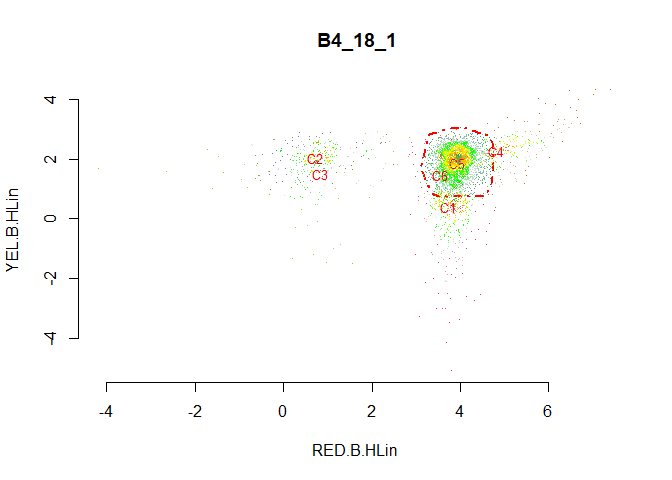
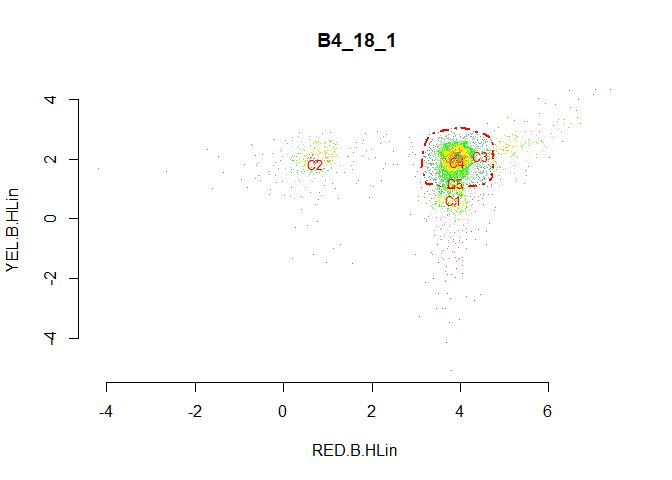
README updated

Changed region(s): [[0.625, 0.2812, 0.75, 0.4688], [0.4375, 0.3125, 0.5, 0.375]]

diff --git a/README.md b/README.md
@@ -234,6 +234,22 @@ cyanoFilter::pair_plot(flowfile_logtrans, notToPlot = "TIME") ##logtransformed
 
 ## Clustering and Gating
 
+Flow cytometry outcomes can be divided into 3 and they are not entirely
+mutually exclusive but this is normally not a problem as scientists are
+normally interested in a pre-defined outcome.
+
+![Flow Cytometry
+Outcomes](README_files/figure-gfm/flowcytometryOutcome.PNG)
+
+  - Margin Events are particles too big to be measured
+  - Doublets are cells with disproportionate Area, Height relationship
+  - Singlets are the ‘normal cells’ but these could either be dead
+    cells/particles (debris) and living (good cells).
+
+The set of functions below identifies margin events and singlets.
+Doublets are normally pre-filtered during the event acquiring phase in a
+flow cytometer, especially in new models.
+
 ### Margin Events
 
 Margin Events are particles that are too large for teh flow cytometer to
@@ -257,6 +273,20 @@ flowfile_marginout <- cyanoFilter::cellmargin(flow.frame = flowfile_logtrans, Ch
 ```
 
 ![](man/figures/README-marginEvents-1.png)<!-- -->
+
+We conceptualized the division of cells into clusters in two ways in
+cyanoFilter and this is reflected in two main functions that perform the
+clustering exercise; `celldebris_nc()` and `celldebris_emclustering()`.
+The `celldebris_nc()` function employs minimum intersection points
+between peaks in observed in a two dimensional kernel density estimate
+while `celldebris_emclustering()` employs an EM algorithm which uses a
+mixture of multivariate normals to assign probabilities to each cell
+belonging to a cluster. Behind the scenes, `celldebris_nc()` calls the
+`deGate()` in **flowDensity** package to estimate the intersection point
+between peaks and `celldebris_emclustering()` calls an internal
+`mvnorm()` function for the multivariate normals. Both functions produce
+plots by default to enable users access the
+results.
 
 ### cyanobacteria Population Identification (Kernel Density Approach using flowDensity)
 
@@ -340,66 +370,71 @@ cyanoFilter::celldebris_nc(flowfile_marginout$reducedflowframe, channel1 = "RED.
     > $Debris_Count
     > [1] 348
 
+Here, we demonstrate the use of the `celldebris_nc()` function on the
+result from filtering out of margin events. The dashed red lines in the
+plot shows the intersection points estimated and the circle comes from
+the fact that *to\_retain* option was set to refined *refined*. This
+option forces the algorithm to retain only cells that are not more than
+1 standard deviations away from the center. If *to\_retain* is set to
+refined *potential*, then all points in the desired section of the 4
+sections resulting from the partitions are retained. The functions
+returns a list containing; a fullflowframe with added column for
+indicators for each cell type, a reduced flowframe with only *interest*
+cells retained, cell count and debris counts.
+
 ### cyanobacteria Population Identification (EM Approach)
 
 ``` r
 
 cyanoFilter::celldebris_emclustering(flowfile_marginout$reducedflowframe, channels =  c("RED.B.HLin",
-                    "YEL.B.HLin", "FSC.HLin", "RED.R.HLin") )
+                    "YEL.B.HLin", "FSC.HLin", "RED.R.HLin"), ncluster = 4, min.itera = 20)
 ```
 
 ![](man/figures/README-emapproach-1.png)<!-- -->
 
     > $percentages
-    > [1] 0.16141975 0.05674587 0.03567496 0.10603963 0.64011979
+    > [1] 0.1603434 0.0913181 0.1352290 0.6131095
     > 
     > $mus
-    >                 [,1]      [,2]      [,3]     [,4]     [,5]
-    > RED.B.HLin 3.7667113 0.6918045 0.8377841 4.672208 3.940687
-    > YEL.B.HLin 0.8290632 2.0195027 1.5998735 2.189597 1.847443
-    > FSC.HLin   4.7099883 5.5553504 5.1949117 6.799144 4.686122
-    > RED.R.HLin 7.5222036 2.1122156 3.0892964 8.460369 7.739509
+    >                 [,1]      [,2]     [,3]     [,4]
+    > RED.B.HLin 3.8465630 0.7131422 4.464301 3.930001
+    > YEL.B.HLin 0.6397642 1.8554664 2.102632 1.898378
+    > FSC.HLin   4.5897667 5.4170762 6.421048 4.701586
+    > RED.R.HLin 7.6555843 2.4252307 8.227040 7.721501
     > 
     > $sigmas
     > $sigmas[[1]]
-    >             RED.B.HLin  YEL.B.HLin   FSC.HLin  RED.R.HLin
-    > RED.B.HLin  0.08650772 -0.04124413 0.07685445  0.08766450
-    > YEL.B.HLin -0.04124413  1.49207964 0.16748962 -0.06058480
-    > FSC.HLin    0.07685445  0.16748962 0.20253901  0.08075963
-    > RED.R.HLin  0.08766450 -0.06058480 0.08075963  0.12208235
+    >            RED.B.HLin YEL.B.HLin   FSC.HLin RED.R.HLin
+    > RED.B.HLin 0.07580081 0.02980540 0.08426180 0.07097636
+    > YEL.B.HLin 0.02980540 1.23630828 0.04172387 0.05866036
+    > FSC.HLin   0.08426180 0.04172387 0.16182267 0.08745400
+    > RED.R.HLin 0.07097636 0.05866036 0.08745400 0.08886564
     > 
     > $sigmas[[2]]
-    >            RED.B.HLin   YEL.B.HLin   FSC.HLin   RED.R.HLin
-    > RED.B.HLin 0.24587507  0.064379340 0.15697100  0.039666562
-    > YEL.B.HLin 0.06437934  0.158786398 0.13088514 -0.006178874
-    > FSC.HLin   0.15697100  0.130885137 1.07100822  0.020786312
-    > RED.R.HLin 0.03966656 -0.006178874 0.02078631  0.362570873
+    >            RED.B.HLin YEL.B.HLin   FSC.HLin RED.R.HLin
+    > RED.B.HLin 0.57603628 0.07228834 0.15286443 0.27384572
+    > YEL.B.HLin 0.07228834 0.45502738 0.18243234 0.06658472
+    > FSC.HLin   0.15286443 0.18243234 1.05536281 0.09535163
+    > RED.R.HLin 0.27384572 0.06658472 0.09535163 2.19134493
     > 
     > $sigmas[[3]]
     >            RED.B.HLin YEL.B.HLin  FSC.HLin RED.R.HLin
-    > RED.B.HLin  1.3504202  0.1361328 0.1780014  1.0482982
-    > YEL.B.HLin  0.1361328  0.8100661 0.1622922  0.4575789
-    > FSC.HLin    0.1780014  0.1622922 0.9449451  0.4280339
-    > RED.R.HLin  1.0482982  0.4575789 0.4280339  5.3530708
+    > RED.B.HLin  0.7139009  0.2776214 0.8619770  0.7329412
+    > YEL.B.HLin  0.2776214  0.3681875 0.5154923  0.2867341
+    > FSC.HLin    0.8619770  0.5154923 1.7671543  0.9027176
+    > RED.R.HLin  0.7329412  0.2867341 0.9027176  0.7740840
     > 
     > $sigmas[[4]]
-    >            RED.B.HLin YEL.B.HLin  FSC.HLin RED.R.HLin
-    > RED.B.HLin  0.6641398  0.2581150 0.6986730  0.6627531
-    > YEL.B.HLin  0.2581150  0.3525741 0.4785388  0.2572977
-    > FSC.HLin    0.6986730  0.4785388 1.5192332  0.6987817
-    > RED.R.HLin  0.6627531  0.2572977 0.6987817  0.6758216
-    > 
-    > $sigmas[[5]]
-    >            RED.B.HLin  YEL.B.HLin   FSC.HLin  RED.R.HLin
-    > RED.B.HLin 0.08377324 0.015955755 0.09307965 0.075609542
-    > YEL.B.HLin 0.01595576 0.245660497 0.02724529 0.008981062
-    > FSC.HLin   0.09307965 0.027245289 0.15232267 0.094490988
-    > RED.R.HLin 0.07560954 0.008981062 0.09449099 0.091592072
+    >            RED.B.HLin YEL.B.HLin   FSC.HLin RED.R.HLin
+    > RED.B.HLin 0.08659053 0.01262454 0.09003367 0.07992904
+    > YEL.B.HLin 0.01262454 0.20102538 0.02049452 0.00709516
+    > FSC.HLin   0.09003367 0.02049452 0.15117268 0.09328323
+    > RED.R.HLin 0.07992904 0.00709516 0.09328323 0.09980127
     > 
     > 
     > $result
     > flowFrame object ' B4_18_1'
-    > with 3831 cells and 17 observables:
+    > with 3831 cells and 16 observables:
     >                  name                                desc range
     > $P1          FSC.HLin          Forward Scatter (FSC-HLin) 1e+05
     > $P2          SSC.HLin             Side Scatter (SSC-HLin) 1e+05
@@ -417,26 +452,33 @@ cyanoFilter::celldebris_emclustering(flowfile_marginout$reducedflowframe, channe
     > 2      Cluster_Prob_2                      Cluster_Prob_2     1
     > 3      Cluster_Prob_3                      Cluster_Prob_3     1
     > 4      Cluster_Prob_4                      Cluster_Prob_4     1
-    > 5      Cluster_Prob_5                      Cluster_Prob_5     1
-    >                   minRange          maxRange
-    > $P1                      0             99999
-    > $P2      -34.4792823791504             99999
-    > $P3      -21.1945362091064             99999
-    > $P4      -10.3274412155151             99999
-    > $P5      -5.34720277786255             99999
-    > $P6      -4.30798292160034             99999
-    > $P7      -25.4901847839355             99999
-    > $P8      -16.0200233459473             99999
-    > $P9                      0             99999
-    > $P10                  -111             99999
-    > $P11                     0             99999
-    > 12                       0                 1
-    > 1                        0 0.999999999999675
-    > 2    2.00292214577102e-109 0.996307497800057
-    > 3     3.24771377094787e-13                 1
-    > 4                        0 0.999999999769265
-    > 5                        0 0.994124337680755
+    >                  minRange          maxRange
+    > $P1                     0             99999
+    > $P2     -34.4792823791504             99999
+    > $P3     -21.1945362091064             99999
+    > $P4     -10.3274412155151             99999
+    > $P5     -5.34720277786255             99999
+    > $P6     -4.30798292160034             99999
+    > $P7     -25.4901847839355             99999
+    > $P8     -16.0200233459473             99999
+    > $P9                     0             99999
+    > $P10                 -111             99999
+    > $P11                    0             99999
+    > 12                      0                 1
+    > 1                       0                 1
+    > 2    1.25653237833895e-27                 1
+    > 3                       0                 1
+    > 4                       0 0.998020607860337
     > 368 keywords are stored in the 'description' slot
+
+Here, we demonstrate the `celldebris_emclustering()` function on the
+result from filtering out of margin events. The red texts in the plot
+shows the center of each cluster and the boundaries of the cluster with
+the largest weight is plotted. It is quite difficult to vizualise
+5-dimensional clustering in two dimensions hence this option. The
+function returns a list containing; matrix of means, list of
+variance-covariance matrices and a flowframe with added columns for the
+cluster probabilities in the expression matrix.
 
 # License
 
